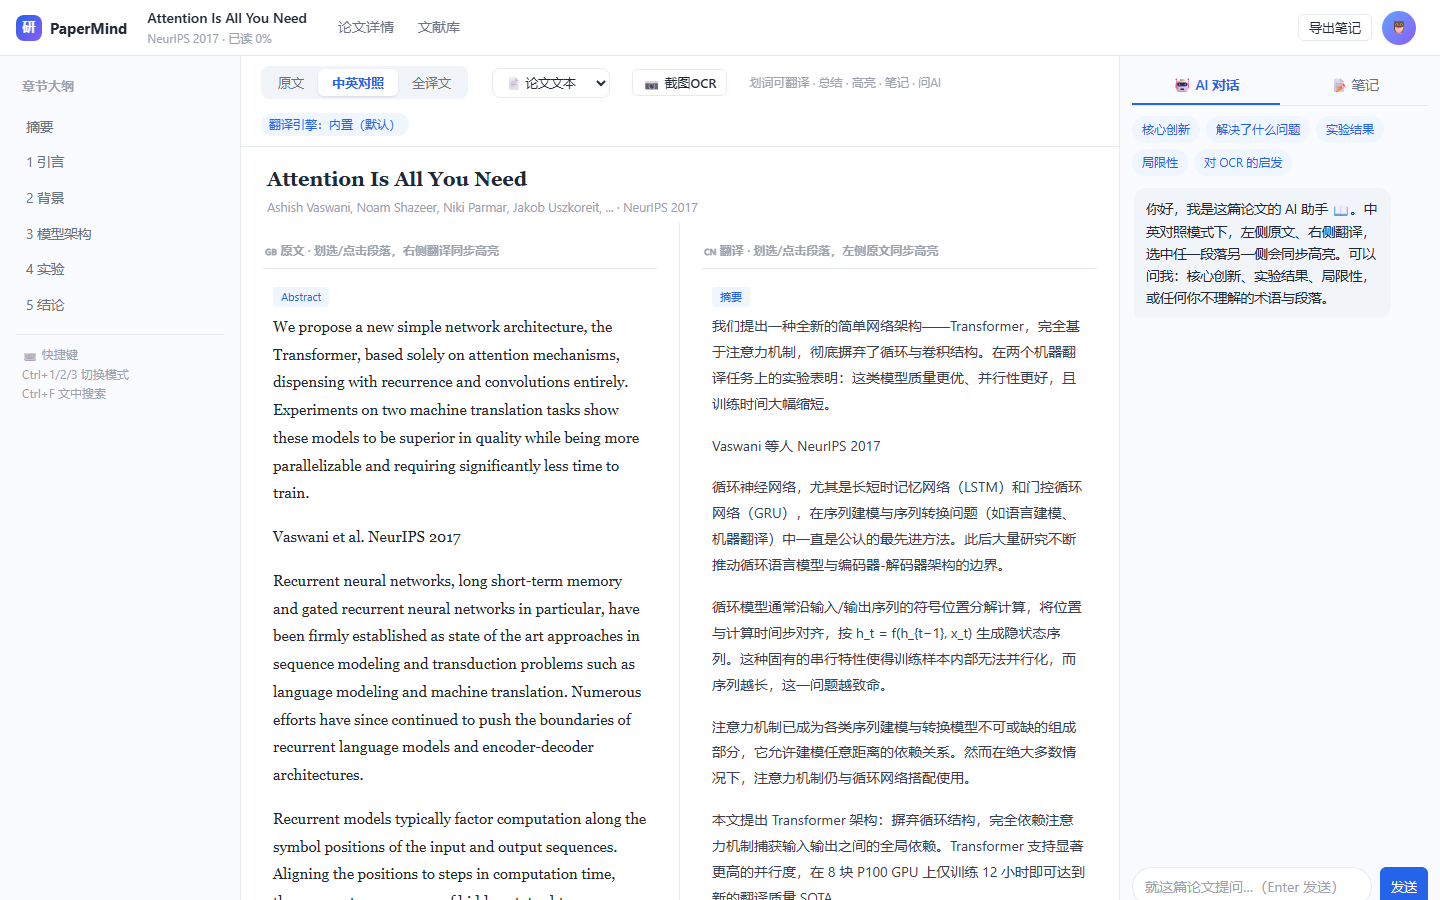
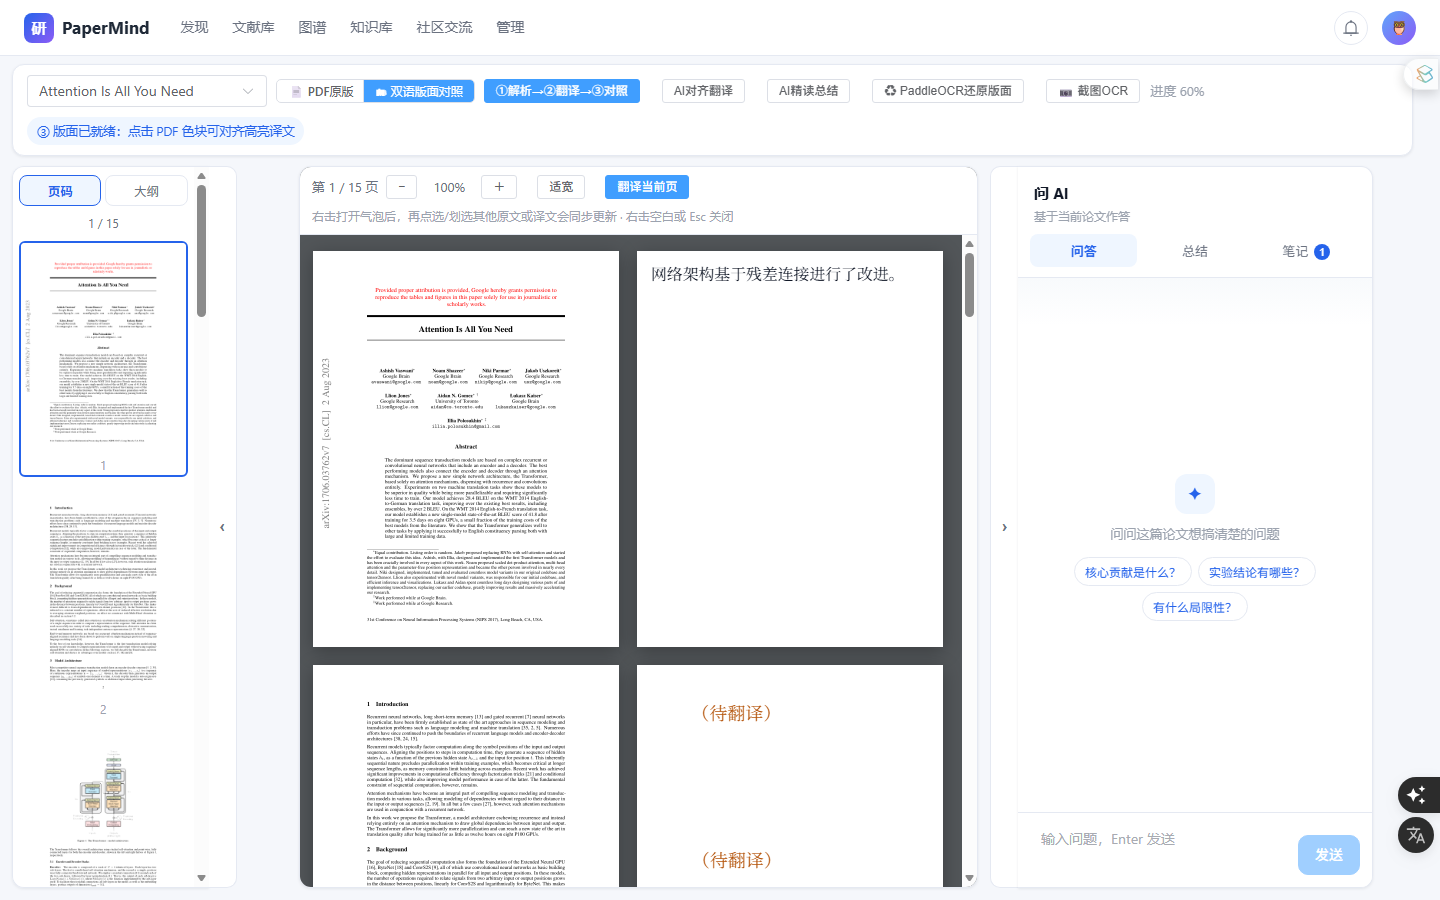
docs: README 界面预览改用真实运行截图，区分管理员/普通用户视角

diff --git a/README.md b/README.md
@@ -23,43 +23,68 @@
 
 ## 界面预览
 
-> 截图来自可交互 HTML 原型（`docs/prototype/`），界面形态与正式产品一致。
+> 以下截图来自**实际运行的 Django + Vue3 全栈服务**（Edge 无头浏览器真实渲染），
+> 登录账号分别为管理员（`demo@papermind.local`）与普通用户，界面随角色权限区分。
 
-### 发现首页
+### 管理员视角
 
-搜索（含热门词）、论文推荐卡片、本周热榜与导入入口：
+#### 发现首页
+
+搜索（含热门词）、论文推荐卡片、热榜与导入入口：
 
 ![发现首页](docs/screenshots/01-discover.png)
 
-### 文献库
+#### 文献库
 
 我的文献 / 收藏网站 / 阅读器 / 导入文献四 Tab 闭环，支持分类、标签、回收站：
 
 ![文献库](docs/screenshots/02-library.png)
 
-### 阅读器
+#### 阅读器
 
-三栏布局（大纲 / 正文 / AI+笔记），支持原文、中英对照、左右双栏联动、划词翻译 / 5 色高亮 / 笔记 / AI 问答：
+三栏布局（大纲 / 正文 / AI+笔记），支持原文、中英对照、划词翻译 / 5 色高亮 / 笔记 / AI 问答。下方为真实解析出的论文正文（PyMuPDF + OCR）：
 
 ![阅读器](docs/screenshots/03-reader.png)
 
-### 知识图谱
+#### 知识图谱
 
 Canvas 力导向图，论文 + 概念节点、引用方向边、中心论文 BFS 展开、知识点搜索推荐：
 
 ![知识图谱](docs/screenshots/04-graph.png)
 
-### 知识库
+#### 知识库
 
 知识资产统计、AI 知识卡片、跨论文术语库、笔记聚合、Obsidian Markdown 导出：
 
 ![知识库](docs/screenshots/05-vault.png)
 
-### 社区交流
+#### 社区交流
 
 公开动态流、点赞评论、团队创建 / 申请 / 审批、论文分享：
 
 ![社区交流](docs/screenshots/06-community.png)
+
+#### 个人中心
+
+统计卡片、最近阅读、笔记汇总、偏好设置（翻译 / OCR 引擎）：
+
+![个人中心](docs/screenshots/07-profile.png)
+
+#### 管理后台（仅管理员可见）
+
+用户管理 / 会员套餐 / 支付订单，可编辑用户、重置密码、删除；普通用户访问 `/admin` 会被自动重定向回首页：
+
+![管理后台](docs/screenshots/08-admin.png)
+
+### 普通用户视角
+
+普通用户登录后顶栏**不显示「管理」入口**，无法进入管理后台；个人中心会员状态为「未开通会员」：
+
+| 页面 | 截图 | 与管理员差异 |
+|------|------|------|
+| 发现首页 | ![普通用户发现页](docs/screenshots/09-user-discover.png) | 顶栏无「管理」入口 |
+| 个人中心 | ![普通用户个人中心](docs/screenshots/10-user-profile.png) | 会员状态「未开通会员」、无管理员标识 |
+| 社区交流 | ![普通用户社区](docs/screenshots/11-user-community.png) | 功能相同，无管理相关操作 |
 
 ---
 
